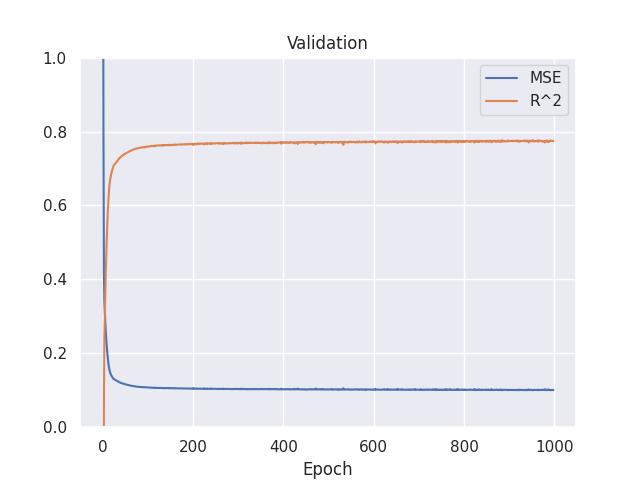
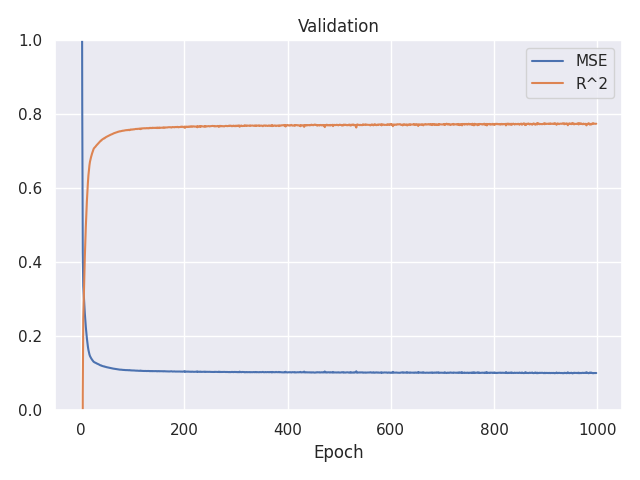
update validation loss plots

diff --git a/gitstar/models/main_model.py b/gitstar/models/main_model.py
@@ -52,6 +52,27 @@ def preprocess(x, y):
 
 def main():
     """Train, validate, optimize model."""
+    #sns.set_context("talk")
+    sns.set()
+    vloss = pd.read_csv(
+        LOG_PATH
+        / "valid_loss_log_canonical_32x16_lr_1e-05_Adam_rel_bs_64_epochs_1000.csv"
+    )
+    vr2 = pd.read_csv(
+        LOG_PATH
+        / "valid_rs_log_canonical_32x16_lr_1e-05_Adam_rel_bs_64_epochs_1000.csv"
+    )
+    win = 0
+    vloss.columns = ["MSE"]
+    vr2.columns = ["R^2"]
+    data = pd.concat([vloss, vr2])
+    ax = sns.lineplot(data=data, dashes=False)
+    ax.set_ylim(0, 1)
+    ax.set_xlim(0, 100)
+    ax.set(xlabel="Epoch", title="Validation")
+    plt.tight_layout()
+    plt.show()
+    exit()
 
     # Load data. Apply scaler transformations to training data. Get DataLoader.
     batch_size = 64
